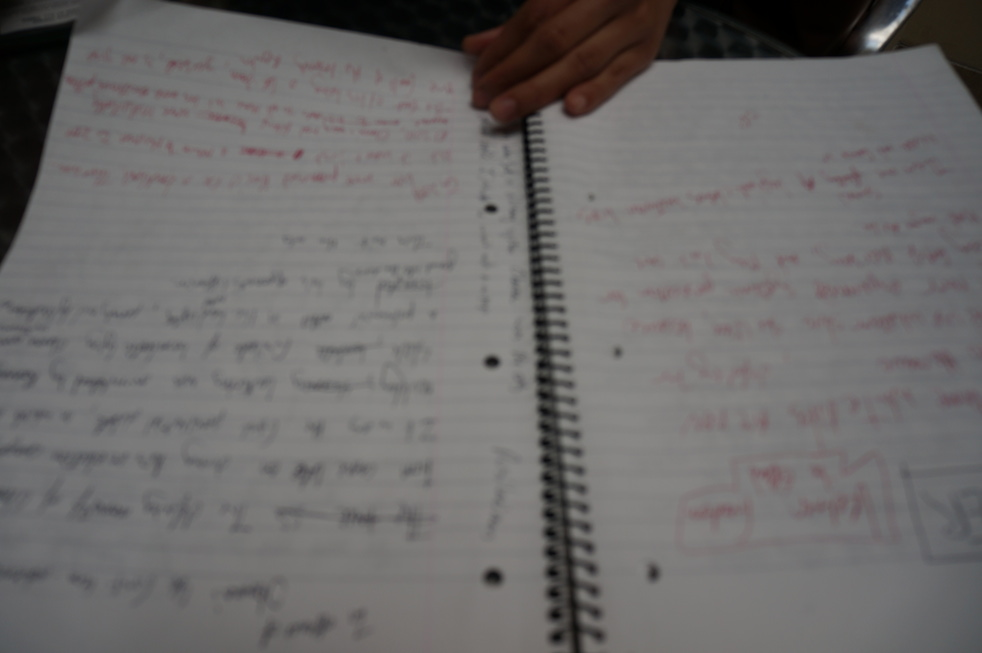
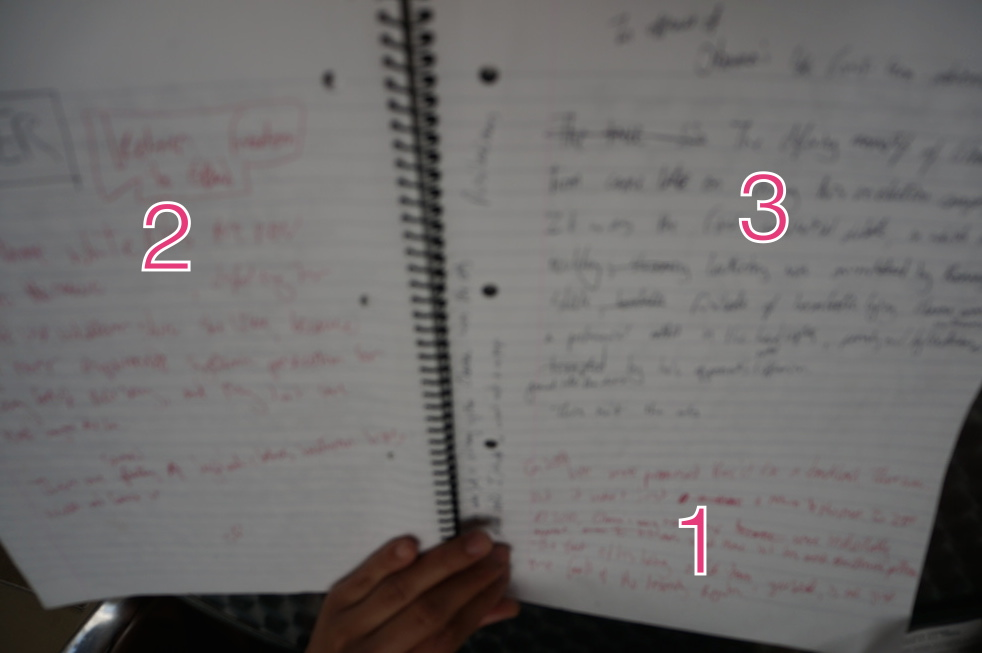
content and captions for yarn

diff --git a/1-writing/index.html b/1-writing/index.html
@@ -110,11 +110,10 @@
     <p>There was also competitive analysis of existing tools, as well as secondary research that just focused on creativity in general, just to build out our knowledge on the topic.</p>
   </div>
   <div class="large-6 columns">
-    <ul data-orbit data-options="slide_number:false;timer:false">
-      <li><img src="research1.JPG"></li>
-      <li><img src="research2.JPG"></li>
-      <li><img src="research3.JPG"></li>
-      <li><img src="research4.JPG"></li>
+    <img src="research1.JPG">
+    <p class="caption">I led research including directed storytelling with a writer and his writing notebook.</p>
+    <img src="research3.JPG">
+    <p class="caption">We eventually incorporated an insight from this notebook: on paper there are no rules to linearity.</p>
     </ul>
   </div>
 </div>
@@ -125,26 +124,23 @@
 
     <p>After affinity diagraming we generated the following insights. </p>
 
-    <h3>It takes a village. </h3>
+    <h3 class="weird-shit">It takes a village</h3>
     <p>Although writing may appear to be a solitary activity, a writer's community is critical to their process, be it for inspiration, feedback, or even just a soundboard for ideas.</p>
 
-    <h3>Practice, practice, practice.</h3>
+    <h3 class="weird-shit">Practice, practice, practice</h3>
     <p>As with any skill, creative writing isn't a matter of talents; it's a matter of dedication to the craft.</p>
 
-    <h3>What if...</h3>
+    <h3 class="weird-shit">What if...</h3>
     <p>What if is a center of creativity. In design we ask, what if we redefine this problem to create better solutions. Writers ask, what if we changed this character or scene or place in story, how does this change the narrative.</p>
 
-    <h3>Sweet spots.</h3>
+    <h3 class="weird-shit">Sweet spots</h3>
     <p>Established writers have a routine, and necessary conditions to optimize their flow.</p>
   </div>
   <div class="large-6 columns">
-    <ul data-orbit data-options="slide_number:false;timer:false">
-      <li><img src="section2.1.png"></li>
-      <li><img src="section2.2.png"></li>
-      <li><img src="section2.3.png"></li>
-      <li><img src="section2.4.png"></li>
-      <li><img src="section2.5.png"></li>
-    </ul>
+    <img src="research4.JPG">
+    <p class="caption">We used affinity diagramming to make sense of qualitative data and generate insights.</p>
+    <img src="section2.5.png">
+    <p class="caption">We created four concepts to address the insights.</p>
   </div>
 </div>
 <div class="row">
@@ -162,11 +158,8 @@
     </ul>
   </div>
   <div class="large-6 columns">
-    <ul data-orbit data-options="slide_number:false;timer:false">
-      <li><img src="section2.a.JPG"></li>
-      <li><img src="section2.b.jpg"></li>
-      <li><img src="section2.c.jpg"></li>
-    </ul>
+    <img src="section2.a.JPG">
+    <p class="caption">All our ideas were put on a wall and voted on.</p>
   </div>
 </div>
 <div class="row">
@@ -179,17 +172,12 @@
     <p>Since the product introduces new concepts and interactions not traditionally found in a text based application, such as moving entire sections through drag or a side-by-side split view, we tested several HTML/Javascript prototypes with writers on the island. Given limited recruitment opportunities on small Portuguese speaking island, participants included bloggers and PhD students.</p>
   </div>
   <div class="large-6 columns">
-    <ul data-orbit data-options="slide_number:false;timer:false">
-      <li><img src="4.6.JPG"></li>
-      <li><img src="4.1.jpg"></li>
-      <li><img src="4.2.jpg"></li>
-      <li><img src="4.4.JPG"></li>
-      <li><img src="4.5.JPG"></li>
-    </ul>
-    <ul data-orbit data-options="slide_number:false;timer:false">
-      <li><img src="5.1.JPG"></li>
-      <li><img src="5.2.png"></li>
-    </ul>
+    <img src="4.5.JPG">
+    <p class="caption">Prototype of story management tool using a traditional story arc.</p>
+    <img src="4.4.JPG">
+    <p class="caption">Good characters have lives before we meet them in a story. Thus we created a character timeline to get writers to think about their characters' lives leading up to the story.</p>
+    <img src="5.1.JPG">
+    <p class="caption">After testing, writers found that the character timeline imposed on their creativity. We replaced it with another feature that allowed them to compare writing side-by-side.</p>
   </div>
 </div>
 

diff --git a/assets/css/main.css b/assets/css/main.css
@@ -485,4 +485,10 @@ h3.weird-shit {
   text-align: center;
   color: #666;
   font-size: 16px;
+  text-transform: uppercase;
+}
+
+.caption {
+  padding-top: 3px;
+  font-size: 14px;
 }
